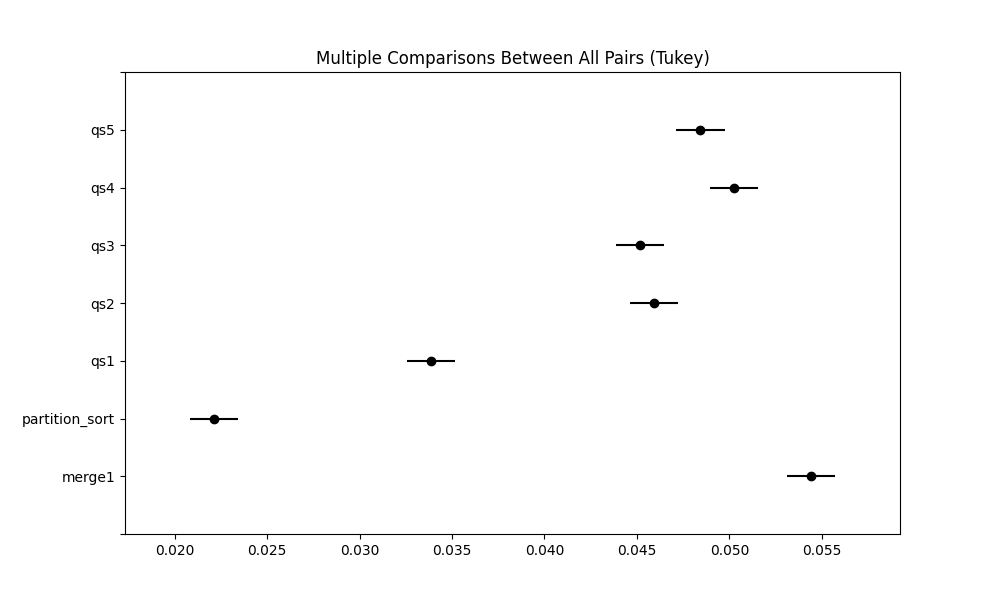
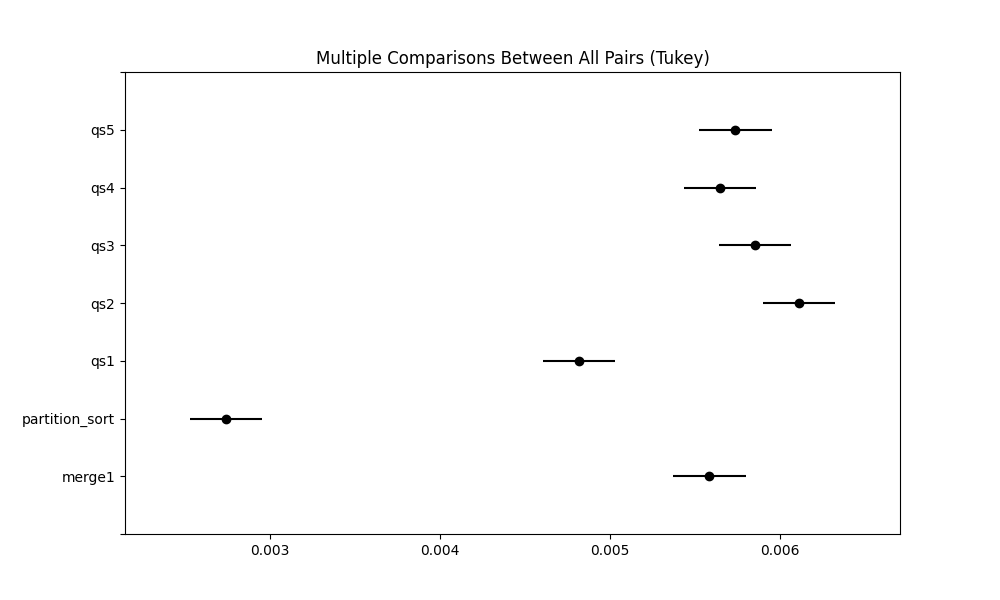
AAAAAA

diff --git a/e6/quiz2.py b/e6/quiz2.py
@@ -1,0 +1,33 @@
+import pandas as pd
+from scipy.stats import ttest_ind
+
+# Assuming your DataFrame is named 'logs'
+# Extract the data for implementation A and B
+implementation_a = logs[logs['Implementation'] == 'A']
+implementation_b = logs[logs['Implementation'] == 'B']
+
+# Calculate the error rates for each implementation
+error_rate_a = implementation_a['Errors'] / implementation_a['Requests']
+error_rate_b = implementation_b['Errors'] / implementation_b['Requests']
+
+# Perform the t-test
+t_stat, p_value = ttest_ind(error_rate_a, error_rate_b, equal_var=True)
+
+# Print the p-value
+print("p-value:", p_value)
+
+
+#part 2
+
+# Calculate the number of crashes for each implementation
+crashes_a = implementation_a['Crashes'].sum()
+crashes_b = implementation_b['Crashes'].sum()
+
+# Perform the chi-square test
+from scipy.stats import chi2_contingency
+
+observed = [[crashes_a, crashes_b]]
+chi2, p_value, _, _ = chi2_contingency(observed)
+
+# Print the p-value
+print("p-value:", p_value)

diff --git a/e6/create_data.py b/e6/create_data.py
@@ -9,19 +9,16 @@ data = pd.DataFrame(columns=[sort.__name__ for sort in all_implementations], ind
 # Run each sorting implementation an equal number of times
 num_runs = 10
 
-for i in range(40):
+for i in range(100):
     random_array = np.random.randint(-1000, 1000, size=1000)
     for sort in all_implementations:
-        total_time = 0
+        
         for _ in range(num_runs):
             st = time.time()
             res = sort(random_array)
             en = time.time()
-            total_time += en - st
-        # Calculate the average time for the given sorting function
-        average_time = total_time / num_runs
-        data.loc[i, sort.__name__] = average_time
-
+            data.loc[i, sort.__name__] = en - st
+        
 
 
 

diff --git a/e6/analyse_data.py b/e6/analyse_data.py
@@ -5,7 +5,7 @@ from statsmodels.stats.multicomp import pairwise_tukeyhsd
 
 data = pd.read_csv("data.csv")
 
-print(" sorting (speed)    Mean") 
+print("sorting method    Mean") 
 print(data.describe().loc['mean',:].sort_values().to_string())
 
 anova = stats.f_oneway(data['qs1'], data['qs2'], data['qs3'], data['qs4'], data['qs5'], data['merge1'], data['partition_sort'])
@@ -17,4 +17,5 @@ posthoc = pairwise_tukeyhsd(
     alpha=0.05)
 
 fig = posthoc.plot_simultaneous()
+print(posthoc)
 fig.savefig('tukey_hsd_plot.png')

diff --git a/e6/ab_analysis.py b/e6/ab_analysis.py
@@ -15,7 +15,7 @@ OUTPUT_TEMPLATE = (
     
 def ab_testing_analysis(data):
     
-    #filter to seprate odd and even uid 
+    #filter to separate odd and even uid 
     #src: https://www.geeksforgeeks.org/split-pandas-dataframe-by-column-value/
     #filter to separate odd and even uid 
     filter_even = data['uid'] % 2 == 0
